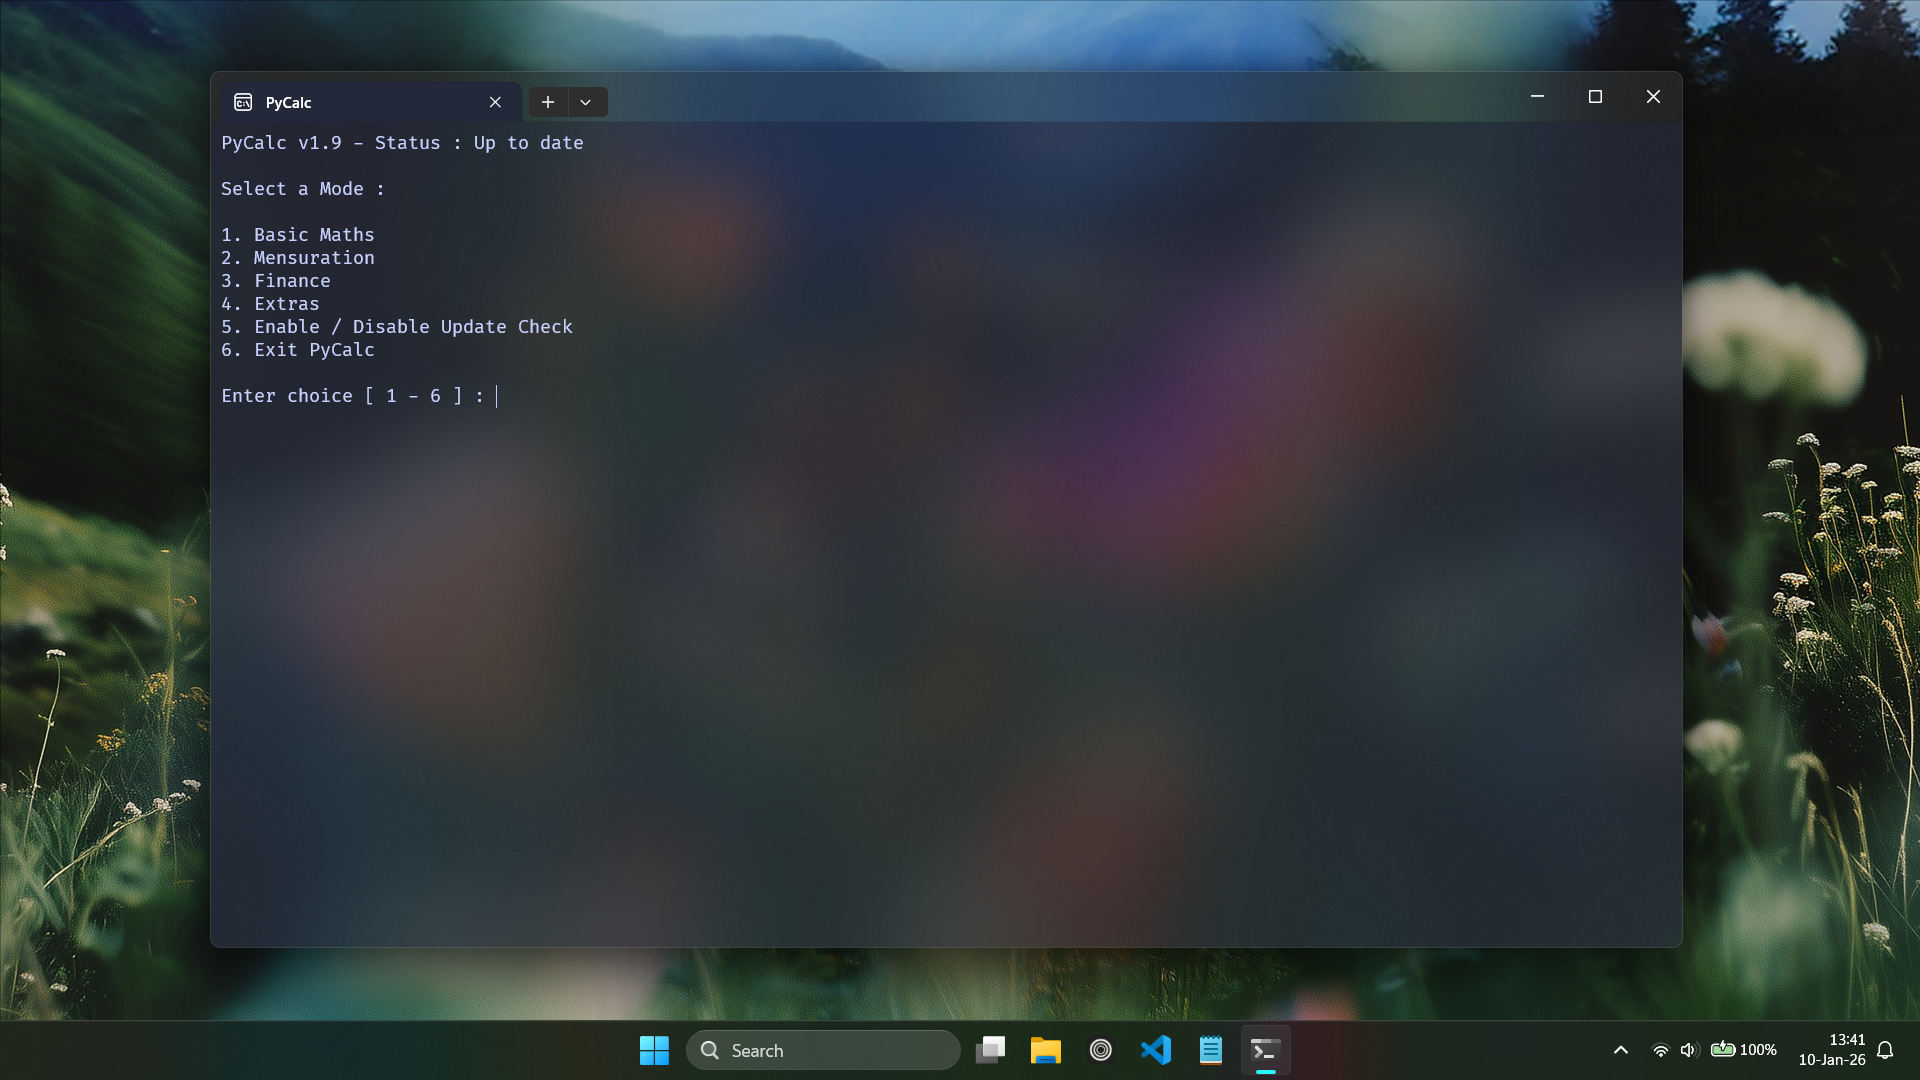
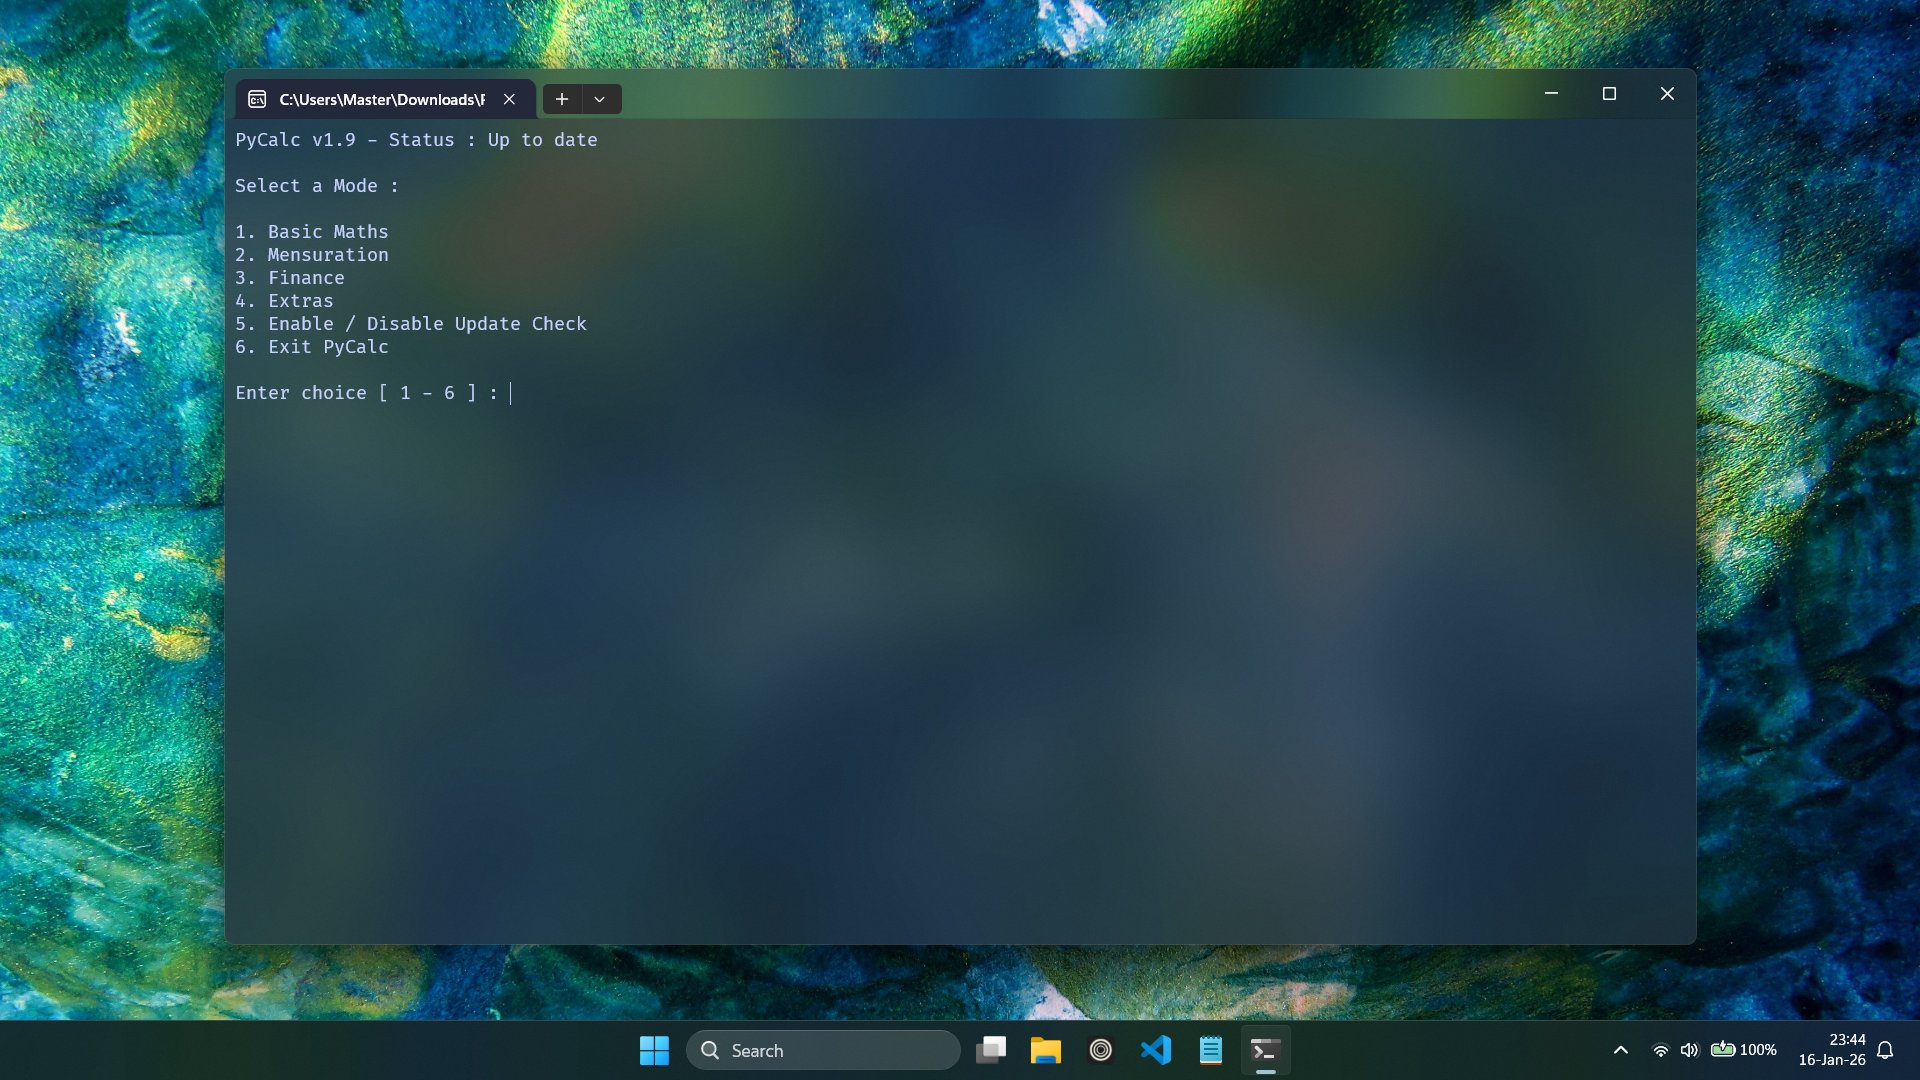
Removed Copyrighted Wallpapers

diff --git a/main.css b/main.css
@@ -73,7 +73,7 @@ main {
     padding: 24px;
     border-radius: 16px;
     box-shadow: 0 4px 32px 0 #000;
-    max-width: 900px;
+    max-width: 950px;
     animation: flyInUp 1.2s 0.5s cubic-bezier(.68,-0.55,.27,1.55) backwards;
 }
 
